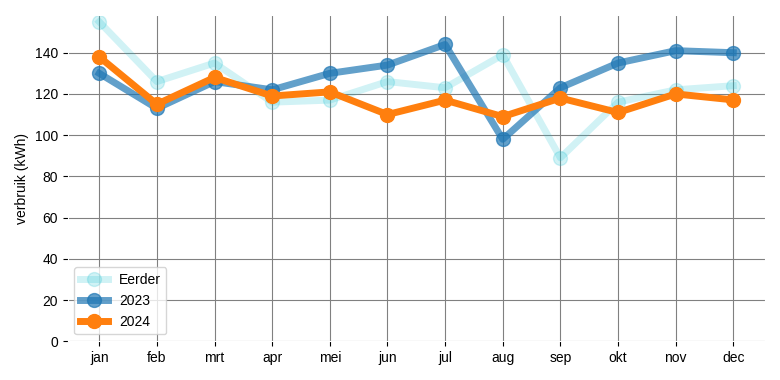
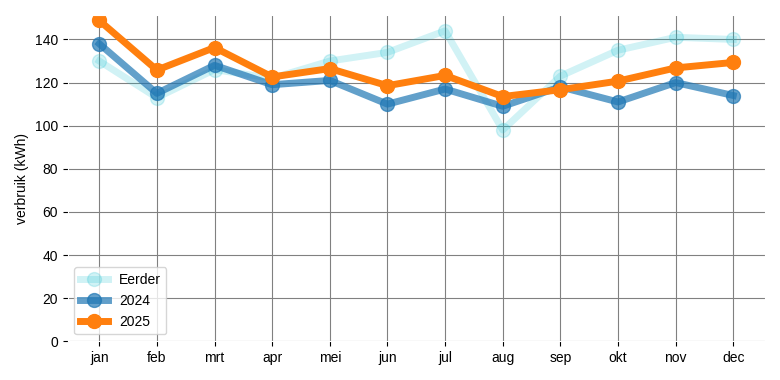
feat: Beginning of 2025

diff --git a/energieverbruik.py b/energieverbruik.py
@@ -38,18 +38,18 @@ class Month(Enum):
 #
 # CONSTANTEN
 #
-HUIDIG_JAAR = 2024
+HUIDIG_JAAR = 2025
 VORIG_JAAR = HUIDIG_JAAR - 1
 
 #
 # INVOEREN GEGEVENS HUIDIGE JAAR
 #
-MAAND = Month.dec
-DAG_VAN_MAAND = 27
+MAAND = Month.jan
+DAG_VAN_MAAND = 5
 DAGEN_IN_MAAND = MAAND.days 
-VERBRUIK_GAS = 174
-VERBRUIK_ELEKTRICITEIT = 102
-VERBRUIK_WATER = 7.62
+VERBRUIK_GAS = 40
+VERBRUIK_ELEKTRICITEIT = 24
+VERBRUIK_WATER = 1.5
 PRIJS_GAS = 1.2469
 PRIJS_ELEKTRICITEIT = 0.2569
 PRIJS_WATER = 1.021
@@ -62,16 +62,19 @@ df = pd.read_csv('energiedata.csv')
 totVerbrGasVrgJr = df['vrbr_gas_VrgJr']
 totVerbrGasVrgJr2 = df['vrbr_gas_VrgJr2']
 totVerbrGasVrgJr3 = df['vrbr_gas_VrgJr3']
+totVerbrGasVrgJr4 = df['vrbr_gas_VrgJr4']
 totVerbrEleVrgJr = df['vrbr_ele_VrgJr']
 totVerbrEleVrgJr2 = df['vrbr_ele_VrgJr2']
 totVerbrEleVrgJr3 = df['vrbr_ele_VrgJr3']
+totVerbrEleVrgJr4 = df['vrbr_ele_VrgJr4']
 totVerbrWatVrgJr = df['vrbr_wat_VrgJr']
 totVerbrWatVrgJr2 = df['vrbr_wat_VrgJr2']
 totVerbrWatVrgJr3 = df['vrbr_wat_VrgJr3']
+totVerbrWatVrgJr4 = df['vrbr_wat_VrgJr4']
 
-totVerbrGasVrgJr2 = (totVerbrGasVrgJr2 + totVerbrGasVrgJr3) / 2
-totVerbrEleVrgJr2 = (totVerbrEleVrgJr2 + totVerbrEleVrgJr3) / 2
-totVerbrWatVrgJr2 = (totVerbrWatVrgJr2 + totVerbrWatVrgJr3) / 2
+totVerbrGasVrgJr2 = (totVerbrGasVrgJr2 + totVerbrGasVrgJr3 + totVerbrGasVrgJr4) / 3
+totVerbrEleVrgJr2 = (totVerbrEleVrgJr2 + totVerbrEleVrgJr3 + totVerbrEleVrgJr4) / 3
+totVerbrWatVrgJr2 = (totVerbrWatVrgJr2 + totVerbrWatVrgJr3 + totVerbrWatVrgJr4) / 3
 
 #
 # BEREKENINGEN GAS
@@ -86,7 +89,7 @@ vastGasJr = vastGasMnd*12
 
 # Bereken gemiddelde graaddagen per maand voor afgelopen vijf jaar
 gemGraaddagen = ((df['grddg_2019'] + df['grddg_2020'] + df['grddg_2021']
-                  + df['grddg_2022'] + df['grddg_2023']) / 5).round(2)
+                  + df['grddg_2022'] + df['grddg_2023'] + df['grddg_2024']) / 6).round(2)
 
 # Bereken percentage verbruik per maand voor graaddagen
 sumGraaddagen = 0
@@ -355,10 +358,10 @@ def GrafiekGas():
     plotGas.figure()
     plotGas.plot(maanden, df['vrbr_gas_VrgJr2'], color='tab:cyan', label="Eerder",
                  linewidth=5, alpha=0.2, marker='o', ms=10)
-    plotGas.plot(maanden, df['vrbr_gas_VrgJr'], color='tab:blue', label="2023",
+    plotGas.plot(maanden, df['vrbr_gas_VrgJr'], color='tab:blue', label="2024",
                  linewidth=5, alpha=0.7, marker='o', ms=10)
     plotGas.plot(maanden, schatVerbrGasHdgJr, color='tab:orange',
-                 label="2024", linewidth=5, marker='o', ms=10)
+                 label="2025", linewidth=5, marker='o', ms=10)
     #plotGas.title("Gas", color='White')
     #plotGas.xlabel("maand", color='White')
     plotGas.ylabel("verbruik (m3)", color='Black')
@@ -376,10 +379,10 @@ def GrafiekElektriciteit():
     plotEle.figure()
     plotEle.plot(maanden, df['vrbr_ele_VrgJr2'], color='tab:cyan', label="Eerder",
                  linewidth=5, alpha=0.2, marker='o', ms=10)
-    plotEle.plot(maanden, df['vrbr_ele_VrgJr'], color='tab:blue', label="2023",
+    plotEle.plot(maanden, df['vrbr_ele_VrgJr'], color='tab:blue', label="2024",
                  linewidth=5, alpha=0.7, marker='o', ms=10)
     plotEle.plot(maanden, schatVerbrEleHdgJr,
-                 color='tab:orange', label="2024", linewidth=5, marker='o', ms=10)
+                 color='tab:orange', label="2025", linewidth=5, marker='o', ms=10)
     #plotEle.title("Elektriciteit", color='White')
     #plotEle.xlabel("maand", color='White')
     plotEle.ylabel("verbruik (kWh)", color='Black')
@@ -397,10 +400,10 @@ def GrafiekWater():
     plotWat.figure()
     plotWat.plot(maanden, df['vrbr_wat_VrgJr2'], color='tab:cyan', label="Eerder",
                  linewidth=5, alpha=0.2, marker='o', ms=10)
-    plotWat.plot(maanden, df['vrbr_wat_VrgJr'], color='tab:blue', label="2023",
+    plotWat.plot(maanden, df['vrbr_wat_VrgJr'], color='tab:blue', label="2024",
                  linewidth=5, alpha=0.7, marker='o', ms=10)
     plotWat.plot(maanden, schatVerbrWatHdgJr, color='tab:orange',
-                 label="2024", linewidth=5, marker='o', ms=10)
+                 label="2025", linewidth=5, marker='o', ms=10)
     #plotWat.title("Water", color='White')
     #plotWat.xlabel("maand", color='White')
     plotWat.ylabel("verbruik (m3)", color='Black')

diff --git a/statistical-info.py b/statistical-info.py
@@ -46,13 +46,13 @@ watDitJaarMin2Med = round(watDitJaarMin2.median(), 1)
 
 def toon(jrStd, jrmin1Std, jrmin2Std, jrGem, jrmin1Gem, jrmin2Gem,
          jrMed, jrmin1Med, jrmin2Med):
-    print("\t   2024\t", jrStd, " (", round(jrStd-jrmin2Std, 1), ")\t",
+    print("\t   2025\t", jrStd, " (", round(jrStd-jrmin2Std, 1), ")\t",
           jrGem, " (", round(jrGem-jrmin2Gem, 1), ")\t",
           jrMed, " (", round(jrMed-jrmin2Med, 1), ")", sep="")
-    print("\t   2023\t", jrmin1Std, " (", round(jrmin1Std-jrmin2Std, 1), ")\t",
+    print("\t   2024\t", jrmin1Std, " (", round(jrmin1Std-jrmin2Std, 1), ")\t",
           jrmin1Gem, " (", round(jrmin1Gem-jrmin2Gem, 1), ")\t",
           jrmin1Med, " (", round(jrmin1Med-jrmin2Med, 1), ")", sep="")
-    print("\t<= 2022\t", jrmin2Std, "\t\t", jrmin2Gem, "\t\t", jrmin2Med, sep="")
+    print("\t<= 2023\t", jrmin2Std, "\t\t", jrmin2Gem, "\t\t", jrmin2Med, sep="")
 
 print("GAS (m3)\tStdDev\t\tAvg\t\tMed")
 toon(gasDitJaarStd, gasDitJaarMin1Std, gasDitJaarMin2Std,
